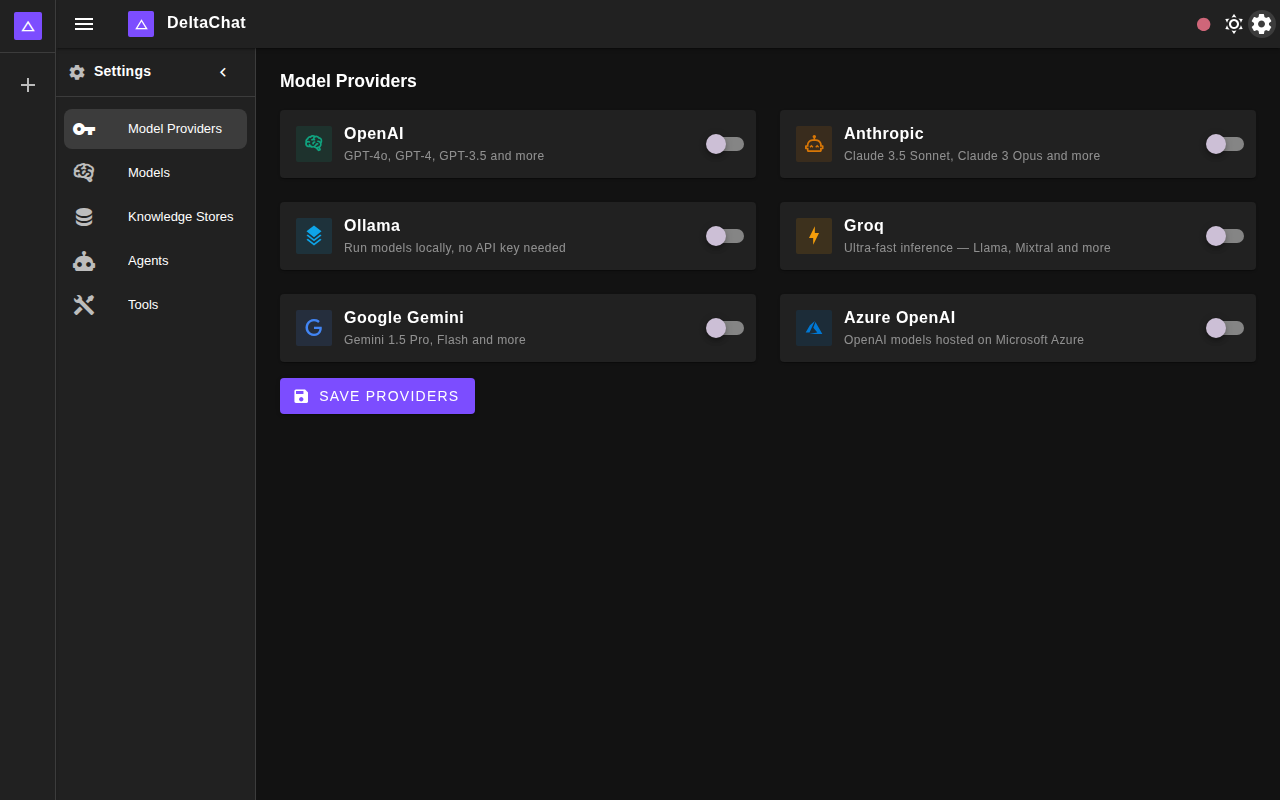
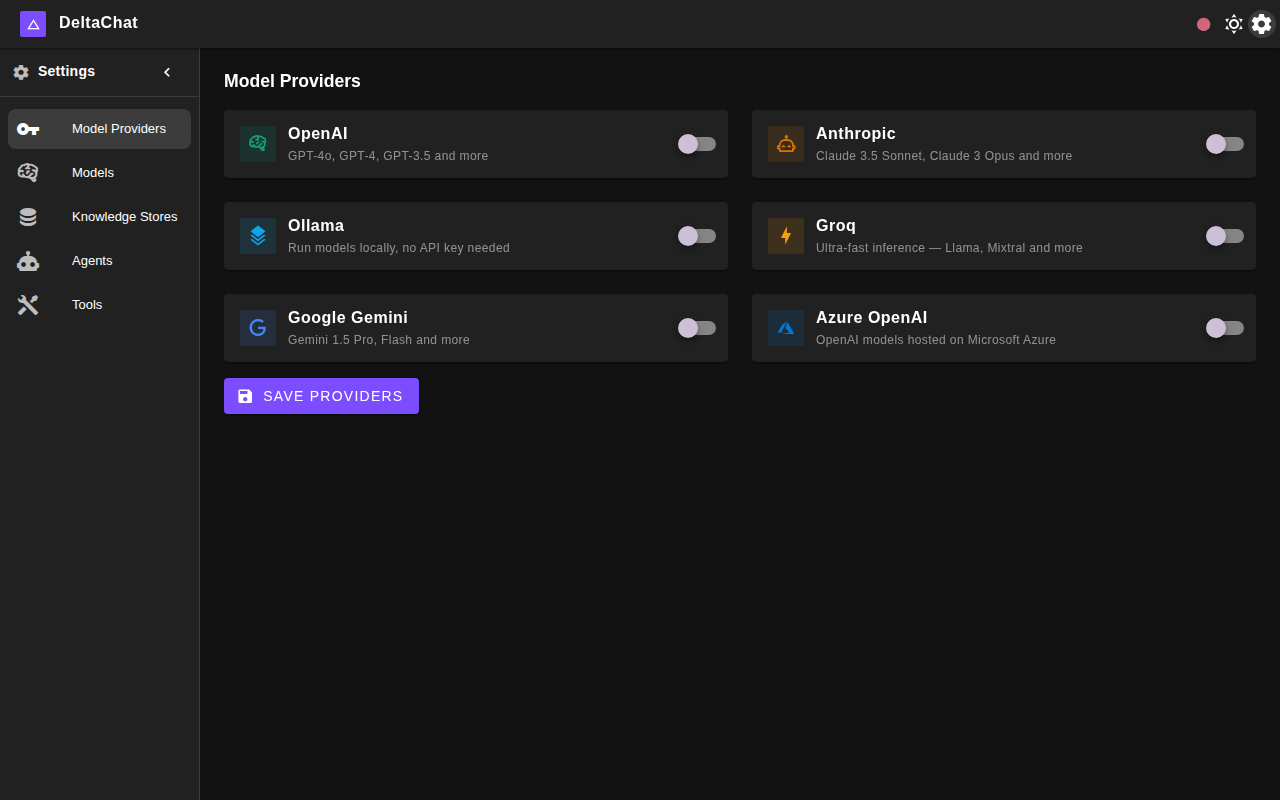
Hide chat sidebar on settings route, remove 7 stale screenshots, refresh all 6 docs screenshots

diff --git a/frontend/src/App.vue b/frontend/src/App.vue
@@ -1,15 +1,16 @@
 <template>
   <v-app :theme="theme">
     <AppNavigation
+      v-if="!isSettings"
       v-model="drawer"
       :rail="rail"
       @toggle-rail="rail = !rail"
     />
 
     <v-app-bar elevation="2" density="compact">
-      <v-app-bar-nav-icon @click="toggleDrawer" />
+      <v-app-bar-nav-icon v-if="!isSettings" @click="toggleDrawer" />
       <!-- Only show brand in app bar when sidebar is collapsed or on mobile -->
-      <v-app-bar-title v-if="rail || mobile" class="font-weight-bold text-body-1">
+      <v-app-bar-title v-if="isSettings || rail || mobile" class="font-weight-bold text-body-1">
         <v-avatar color="primary" size="26" rounded="sm" class="mr-2" style="flex-shrink:0">
           <v-icon icon="mdi-delta" size="15" color="white" />
         </v-avatar>
@@ -51,10 +52,12 @@
 <script setup>
 import { ref, computed, onMounted, onUnmounted } from 'vue'
 import { useDisplay } from 'vuetify'
+import { useRoute } from 'vue-router'
 import AppNavigation from './components/AppNavigation.vue'
 import axios from 'axios'
 
 const { mobile } = useDisplay()
+const route = useRoute()
 
 const theme = ref('dark')
 const drawer = ref(true)
@@ -62,6 +65,7 @@ const rail = ref(true)
 const connected = ref(false)
 
 const isDark = computed(() => theme.value === 'dark')
+const isSettings = computed(() => route.path.startsWith('/settings'))
 const API = import.meta.env.VITE_API_URL || 'http://localhost:3000'
 let interval
 

diff --git a/CHANGELOG.md b/CHANGELOG.md
@@ -35,8 +35,10 @@ The format is based on [Keep a Changelog](https://keepachangelog.com/en/1.0.0/).
 - Knowledge Stores removed from the main left navigation (it lives in Settings now).
 
 ### Changed
+- `App.vue` – `AppNavigation` (chat sidebar) is now **hidden on the `/settings` route**; the nav-icon is also hidden on settings, and the DeltaChat brand title is always shown in the app bar when on settings.
 - `ChatInterface.vue` – attachment button now sits **left of the send button** in a horizontal row (previously stacked vertically above the send button).
 - `SettingsPanel.vue` – settings left sidebar now supports collapsible rail mode matching the chat sidebar pattern: collapsed shows icons only (56 px) with a `›` chevron to expand; expanded shows icon + text (200 px) with a `‹` chevron to collapse; active tab is always highlighted.
+- `docs/screenshots` – removed 7 stale/unreferenced screenshots (`chat-light.png`, `chat-collapsed.png`, `knowledge.png`, `settings-agents.png`, `settings-mobile.png`, `settings-knowledge.png`, `settings-tools.png`); all 6 remaining screenshots refreshed to reflect current UI.
 - `ChatInterface.vue` – internal `<aside class="chat-sidebar">` removed; component is now the chat area only (toolbar + messages + input). Input area always visible; `sendMessage()` auto-creates a chat when `currentChatId` is null; toolbar model selector always visible on desktop; `loadMessages` triggered by watching `currentChatId`.
 - `AppNavigation.vue` – takes over chat list responsibilities (search, filter, chat items, folder groups, bookmark/delete); collapsed rail shows `+` icon only; expanded shows full chat UI; clicking a chat item selects it and loads its messages.
 - `router/index.js` – removed `/knowledge` route; only `/` and `/settings` remain.
